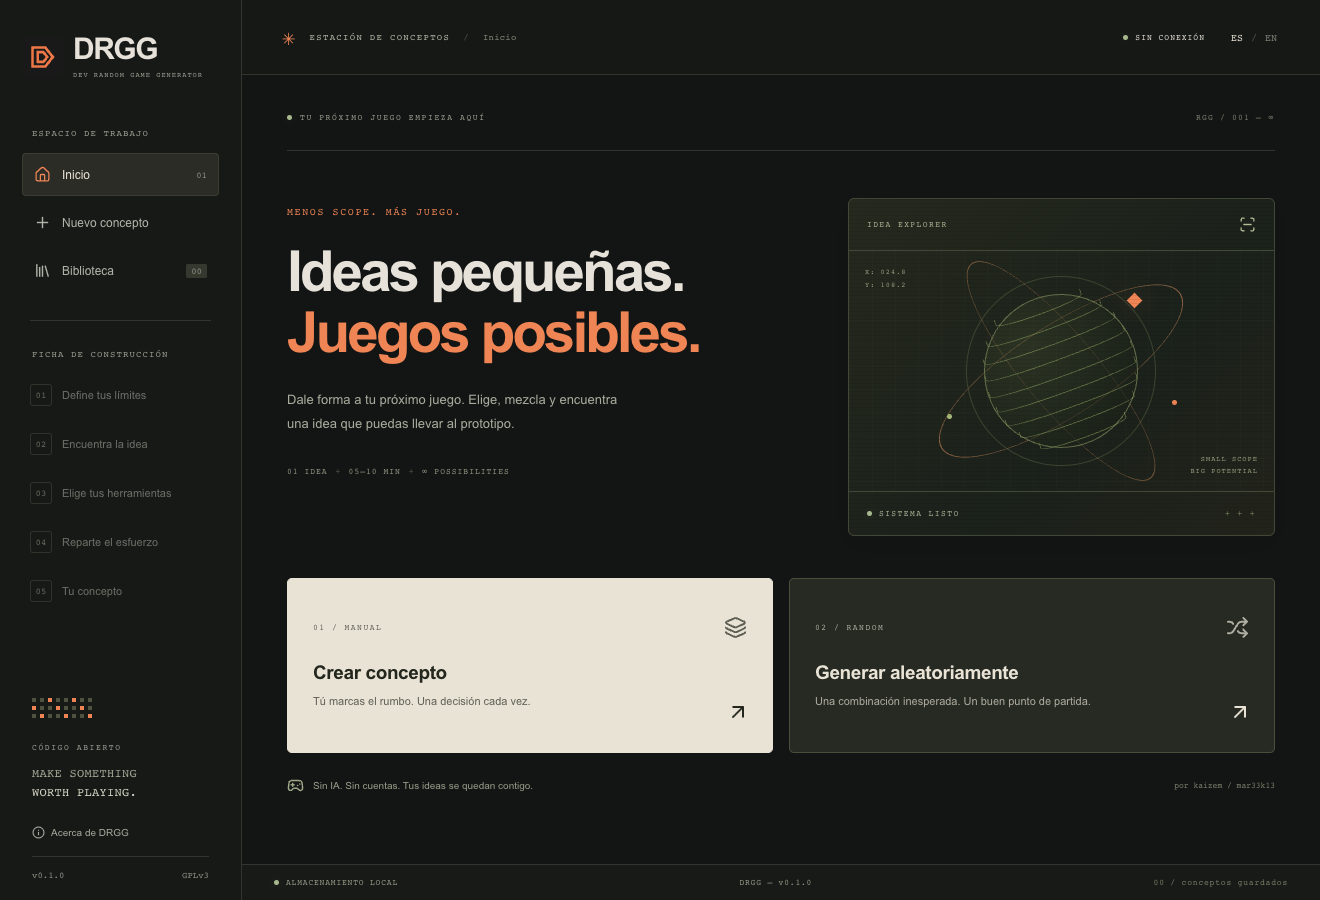
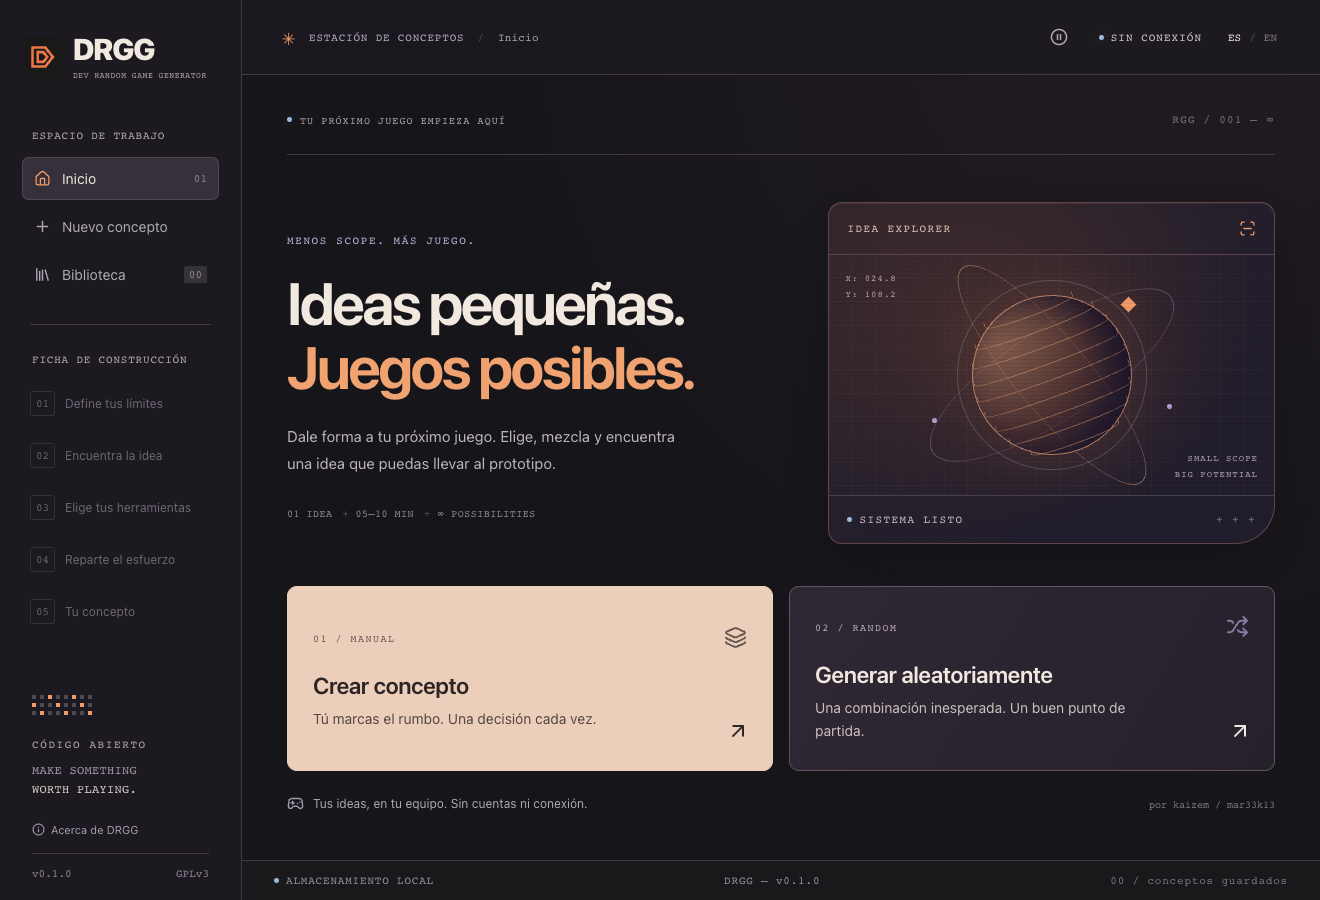
docs: document development workflows and verified interface refresh

diff --git a/tests/e2e/app.spec.ts b/tests/e2e/app.spec.ts
@@ -6,7 +6,11 @@ test('manual workflow, real engines, priorities, persistence, duplicate and dele
   await expect(
     page.getByRole('heading', { name: 'Ideas pequeñas. Juegos posibles.' }),
   ).toBeVisible();
-  await page.screenshot({ path: testInfo.outputPath('home.png'), fullPage: true });
+  await page.screenshot({
+    path: testInfo.outputPath('home.png'),
+    fullPage: true,
+    animations: 'disabled',
+  });
   await page.getByRole('button', { name: /01 \/ MANUAL/ }).click();
   await page.getByLabel('Tu equipo', { exact: true }).selectOption('2-3');
   await page.getByRole('button', { name: 'Siguiente', exact: true }).click();
@@ -29,7 +33,11 @@ test('manual workflow, real engines, priorities, persistence, duplicate and dele
   }
   await page.getByRole('heading', { name: 'Tu concepto.' }).focus();
   await page.evaluate(() => window.scrollTo(0, 0));
-  await page.screenshot({ path: testInfo.outputPath('concept.png'), fullPage: true });
+  await page.screenshot({
+    path: testInfo.outputPath('concept.png'),
+    fullPage: true,
+    animations: 'disabled',
+  });
   await page.getByRole('button', { name: 'Guardar concepto', exact: true }).click();
   await expect(page.getByRole('status')).toContainText('Concepto guardado');
   await page.reload();

diff --git a/README.md b/README.md
@@ -2,7 +2,7 @@
 
 **Ideas pequeñas. Juegos posibles. / Small ideas. Possible games.**
 
-App de escritorio para decidir qué videojuego pequeño construir en 5–10 minutos. Creada por **kaizem (mar33k13)**. Sin IA, cuentas, telemetría, suscripciones ni servicios externos.
+App de escritorio para decidir qué videojuego pequeño construir en 5–10 minutos. Creada por **kaizem (mar33k13)**. Generación por plantillas, sin cuentas, telemetría, suscripciones ni servicios externos.
 
 ![Pantalla inicial de DRGG](docs/screenshots/home.png)
 
@@ -11,14 +11,16 @@ App de escritorio para decidir qué videojuego pequeño construir en 5–10 minu
 Los instaladores publicados estarán en [GitHub Releases](https://github.com/mar33k13/DRGG/releases). Antes de publicar una versión, los paquetes de prueba se descargan como artifacts desde GitHub Actions. No necesitas Node ni Rust para usar un instalador.
 
 1. Elige **Crear concepto** o **Generar aleatoriamente**.
-2. Define el equipo real y objetivo: microjuego, prototipo o juego pequeño.
+2. Define el equipo real, objetivo y modelo de desarrollo: **humano, híbrido o principalmente con IA**. Indica las áreas de apoyo cuando corresponda.
 3. Combina tema, género, subgénero, motor, plataforma, dimensionalidad, perspectiva, estilo y modo de juego.
 4. Reparte **100 puntos** entre mecánicas, físicas, gráficos, narrativa y audio.
-5. Obtén una ficha con tres mecánicas, recortes de alcance, complejidad y equipo orientativo. Ponle nombre y guárdala.
+5. Obtén una ficha con tres mecánicas, recortes de alcance, complejidad técnica, exigencia para tu equipo y equipo humano orientativo. Ponle nombre y guárdala.
 
 Bloquea cualquier selector para conservarlo al sortear. Equipo y objetivo empiezan bloqueados. El modo **coherente** ajusta selecciones relacionadas respetando los bloqueos; si no existe solución, avisa sin modificarlos. El modo **libre** admite mezclas incompatibles y las señala. El exceso de alcance se advierte, sin bloquear. Las reglas son una selección práctica, no todas las posibilidades técnicas de cada motor.
 
-La biblioteca permite abrir, editar, duplicar y eliminar conceptos. Exporta Markdown, texto o JSON; importa JSON v1 de DRGG para recuperar o compartir conceptos. Solo JSON conserva los datos estructurados para reimportarlos. Los textos se construyen con plantillas.
+La biblioteca permite abrir, editar, duplicar y eliminar conceptos. Exporta Markdown, texto o JSON; importa JSON v1/v2 de DRGG para recuperar o compartir conceptos. Solo JSON conserva los datos estructurados para reimportarlos. Los textos se construyen con plantillas. El modelo de desarrollo describe cómo harás el juego; DRGG no ejecuta IA. Las recomendaciones explican las condiciones de apoyo e integración.
+
+Tarjetas de motores, géneros y dimensiones, transiciones de etapas y respuesta visual al sortear, bloquear y guardar. El control de animaciones de la barra superior permite reducir el movimiento; también se respeta la preferencia del sistema.
 
 ## Datos locales
 
@@ -28,7 +30,9 @@ La app guarda `library-v1.json` en la carpeta de datos de `io.github.mar33k13.dr
 - Windows: `%APPDATA%\io.github.mar33k13.drgg\`
 - Linux: `${XDG_DATA_HOME:-~/.local/share}/io.github.mar33k13.drgg/`
 
-Escritura atómica y una sola instancia. **No hay copia en la nube**: exporta para hacer respaldos. Si la biblioteca no se puede leer, se bloquea el guardado para no sobrescribirla. Conserva el archivo original, revisa permisos y recupera exportaciones; no borres una biblioteca dañada sin respaldarla. El idioma se recuerda en el almacenamiento local del visor.
+Escritura atómica y una sola instancia. **No hay copia en la nube**: exporta para hacer respaldos. Si la biblioteca no se puede leer, se bloquea el guardado para no sobrescribirla. Conserva el archivo original, revisa permisos y recupera exportaciones; no borres una biblioteca dañada sin respaldarla. El idioma y la preferencia de movimiento se recuerdan en el almacenamiento local del visor.
+
+Se mantiene el nombre de archivo `library-v1.json` para encontrar bibliotecas anteriores. El contenido guardado y las exportaciones nuevas usan el formato v2. Al leer v1 se asigna desarrollo humano; se migra en disco al guardar. Las versiones antiguas de la app rechazan v2 para evitar perder los nuevos campos.
 
 La previsualización de desarrollo en navegador guarda una biblioteca independiente en `localStorage`. Borrar sus datos elimina esa biblioteca. Importación limitada a 2 MB y a IDs existentes en el catálogo. No hay editor de contenido ni paquetes externos en 0.1.
 
@@ -59,13 +63,13 @@ Actions comprueba la interfaz y prepara paquetes para macOS Apple Silicon/Intel,
 
 ## Contribuir
 
-Lee [CONTRIBUTING.md](CONTRIBUTING.md). Catálogo: `src/data/catalog.json`; mecánicas: `src/data/mechanics.json`; traducciones: `src/i18n.ts`; reglas: `src/core.ts`. Consulta [el alcance acordado](docs/PRODUCT.md) y [las reglas](docs/COMPLEXITY.md). No se incluyen recursos de Game Dev Tycoon ni logos comerciales. Las marcas se usan como nombres descriptivos, sin afiliación.
+Lee [CONTRIBUTING.md](CONTRIBUTING.md). Catálogo: `src/data/catalog.json`; mecánicas: `src/data/mechanics.json`; traducciones: `src/i18n.ts`, `src/development.ts` y `src/choiceDetails.ts`; reglas: `src/core.ts`. Consulta [el alcance acordado](docs/PRODUCT.md) y [las reglas](docs/COMPLEXITY.md). No se incluyen recursos de Game Dev Tycoon ni logos comerciales. Las marcas se usan como nombres descriptivos, sin afiliación.
 
 ## English
 
-An **offline desktop game-idea generator**. Start manually or roll a concept, set your real team and scope, choose real engines and platforms, then allocate 100 effort points. Get a compact brief with three prototype mechanics, scope cuts, transparent complexity guidance and a suggested team size. No AI, accounts, telemetry, cloud storage or time estimates.
+An **offline desktop game-idea generator**. Start manually or roll a concept, set your real team and scope, choose real engines and platforms, then allocate 100 effort points. Get a compact brief with three prototype mechanics, scope cuts, transparent complexity guidance and a suggested team size. No AI services, accounts, telemetry, cloud storage or time estimates. Select human, hybrid or mostly AI development and its areas of assistance; this describes your workflow, not a service run by DRGG. Technical complexity is separate from conditional team guidance.
 
-Spanish and English included. Lock choices and reroll the rest. Coherent mode repairs dependent choices while respecting locks; free mode allows unusual combinations with warnings. Save, edit, duplicate, delete and import concepts. Export Markdown, plain text and versioned JSON. Use Releases for installers; development commands are above. Initial binaries are unsigned; successful platform builds are not manual runtime tests.
+Spanish and English included. Lock choices and reroll the rest. Coherent mode repairs dependent choices while respecting locks; free mode allows unusual combinations with warnings. Save, edit, duplicate, delete and import concepts. Export Markdown, plain text and v2 JSON; v1 imports migrate to a human development model. Animation preferences are remembered, and system reduced motion is respected. Use Releases for installers; development commands are above. Initial binaries are unsigned; successful platform builds are not manual runtime tests.
 
 ## License
 

diff --git a/docs/VALIDATION.md b/docs/VALIDATION.md
@@ -2,7 +2,7 @@
 
 19 de octubre de 2026. Evidencia local, sin dar por verificados sistemas donde no se ha ejecutado la aplicación.
 
-## Comprobado
+## Versión inicial comprobada (`2eabc37`)
 
 - TypeScript estricto e interfaz de producción compilados.
 - 11 pruebas de lógica: 1.000 generaciones coherentes, conservación y conflictos de bloqueos, todos los motores, presupuesto de 100 puntos tras 2.000 modificaciones, validación de JSON y exportación bilingüe.
@@ -18,6 +18,17 @@ Paquete macOS Apple Silicon local: `DRGG_0.1.0_aarch64.dmg`. SHA-256: `0568fae7d
 ## Compilaciones en GitHub
 
 [Desktop packages](https://github.com/mar33k13/DRGG/actions/runs/39244667554), commit de aplicación `2eabc37142b6585e8430e3ad6feaa7324a76c5a8`: pruebas Rust y empaquetado superados en macOS Apple Silicon, macOS Intel, Windows x64 y Linux x64. Instaladores generados: DMG para ambas arquitecturas macOS; EXE y MSI para Windows; AppImage, DEB y RPM para Linux. No se afirma ejecución manual de esos instaladores fuera del Mac Apple Silicon local.
+
+## Renovación de interfaz y modelos de desarrollo (revisión del 19 de octubre)
+
+- 16 pruebas Vitest superadas: generación, bloqueos, esfuerzo, intercambio bilingüe, migración v1→v2, rechazo de modelos malformados y separación de complejidad técnica frente a equipo condicionado por tareas de IA.
+- 8 recorridos Playwright en Chrome superados. Añaden persistencia/exportación del modelo híbrido, tarjetas con teclado, Roblox coherente y bloqueado, preferencia de movimiento local/sistema y todas las etapas a 390 píxeles sin desbordamiento horizontal.
+- 2 pruebas Rust superadas: escritura atómica/límites y persistencia v1/v2 con rechazo de una versión desconocida sin sobrescritura.
+- TypeScript, Vite de producción y Prettier superados. Vite mantiene el aviso del paquete grande por los textos legales incluidos; no hay nuevas dependencias.
+- Revisión visual en navegador y WebKit nativo macOS Apple Silicon; tamaño de los selectores normalizado y flecha empaquetada como recurso local compatible con la política de contenidos nativa. Tarjetas de motores, nueva paleta, modelo de desarrollo, ficha y biblioteca revisados. Las transiciones no bloquean los controles; movimiento reducido comprobado automáticamente. No se ha medido el rendimiento en máquinas externas.
+- Prueba nativa real: guardar «Órbita híbrida — ejemplo» con programación y arte, cerrar, reabrir y recuperar sus selecciones. Archivo en disco comprobado: versión 2, tres conceptos; los dos ejemplos anteriores se conservan como humanos sin áreas.
[1 lines of base64/hex data omitted]
+- Los instaladores del borrador `preview-0.1.0` y las compilaciones multiplataforma enlazadas arriba corresponden a la versión inicial; no se han sustituido con esta revisión de interfaz.
 
 ## Límites
 

diff --git a/docs/PRODUCT.md b/docs/PRODUCT.md
@@ -29,7 +29,7 @@ JSON y biblioteca v2 conservan el modelo. Se leen los conceptos v1 como humanos 
 
 Requisito explícito añadido por el autor: **DRGG debe ser visualmente muy bonita y tener animaciones atractivas**. La calidad visual y el movimiento forman parte del producto y de su sensación de videojuego. El moodboard sigue siendo la referencia para la identidad; la interfaz debe tener una composición cuidada, tipografía legible, buen contraste, espaciado consistente y controles con personalidad.
 
-Dirección de movimiento para desarrollar y revisar:
+Dirección de movimiento implementada:
 
 - Transiciones fluidas entre las cinco etapas y entradas suaves de los paneles.
 - Animación al sortear combinaciones que transmita exploración y conserve visualmente los campos bloqueados.
@@ -37,6 +37,6 @@ Dirección de movimiento para desarrollar y revisar:
 - Barras de esfuerzo e indicadores de complejidad con cambios animados que permitan seguir el nuevo reparto.
 - Elementos ambientales sutiles, como las órbitas de la pantalla inicial, coherentes con la estética de consola retrofuturista.
 
-Las animaciones deben sentirse ágiles, mantener la navegación por teclado y respetar la preferencia del sistema de reducir movimiento. No deben introducir esperas obligatorias ni entorpecer el objetivo de concretar una idea en 5–10 minutos. Su implementación se comprobará en la aplicación; documentar este requisito no significa que todas estas animaciones estén ya realizadas.
+Las animaciones deben sentirse ágiles, mantener la navegación por teclado y respetar la preferencia del sistema de reducir movimiento. No deben introducir esperas obligatorias ni entorpecer el objetivo de concretar una idea en 5–10 minutos. El control superior permite reducir las animaciones y recuerda la elección; la preferencia de reducción del sistema tiene prioridad. El movimiento ambiental se pausa cuando el documento está oculto. La verificación de cada entrega se registra en VALIDATION.md.
 
 Criterio de aceptación: completar el flujo en menos de diez minutos, identificar un foco de práctica, obtener un alcance compacto, guardar y reabrir el concepto. Registrar por separado pruebas de lógica, interfaz, compilación por plataforma y ejecución nativa.
